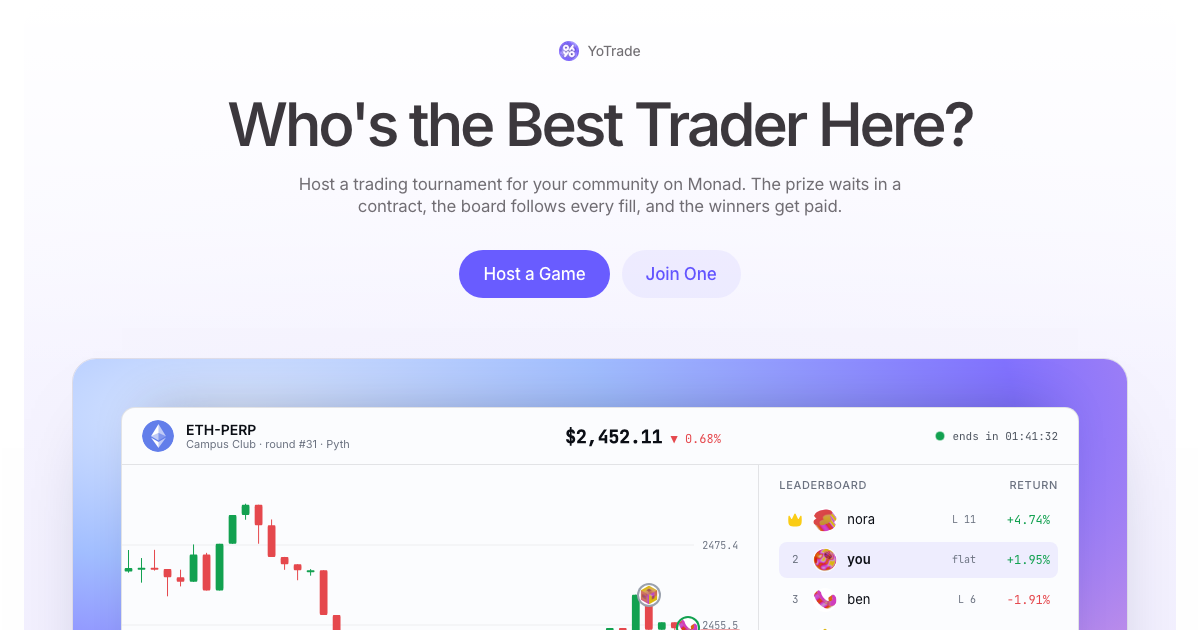
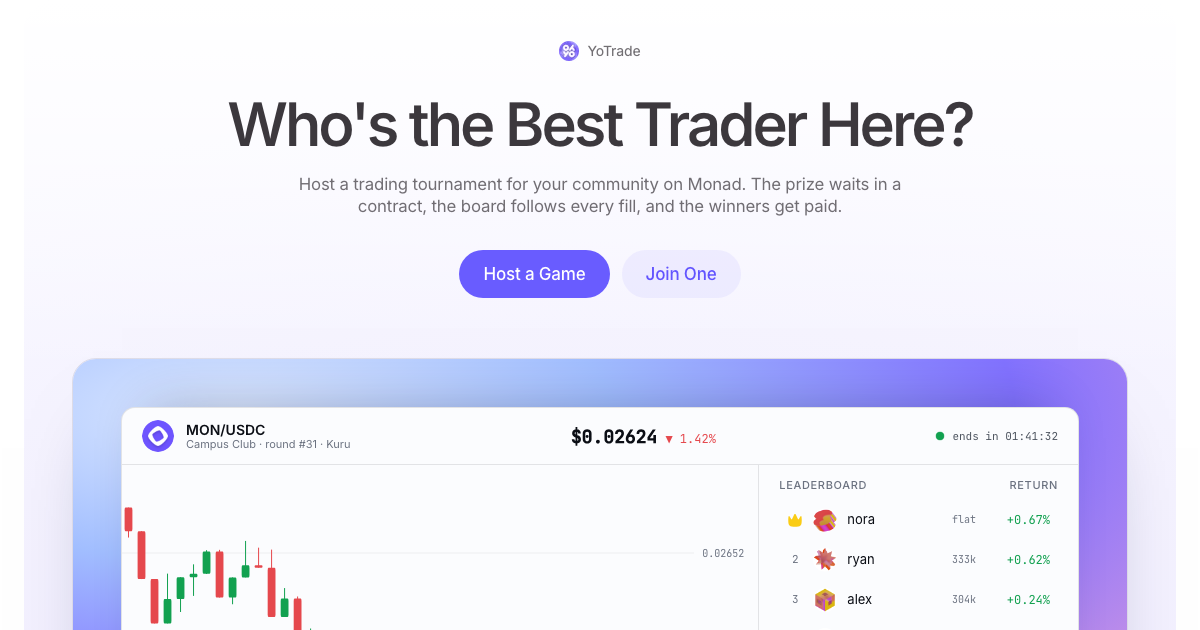
feat(landing): the hero round trades MON/USDC on Kuru, buys and sells

diff --git a/apps/landing/src/components/canvas/hero-canvas.tsx b/apps/landing/src/components/canvas/hero-canvas.tsx
@@ -2,9 +2,9 @@ import { AnimatePresence, motion, useReducedMotion } from "framer-motion";
 import { useEffect, useState } from "react";
 
 /**
- * A futures round in motion: an ETH candle chart, a handful of traders opening and closing on it,
- * and the board re-ranking with every tick. A simulation: the rules are the app's (the same
- * $10,000 for everyone, return on capital, the same price for all), the traders and prices are not.
+ * A spot round in motion: a MON/USDC candle chart on Kuru's book, a handful of traders buying in and
+ * selling out on it, and the board re-ranking with every tick. A simulation: the rules are the app's (the
+ * same capital for everyone, return on capital, the same book for all), the traders and prices are not.
  */
 
 type Candle = { o: number; h: number; l: number; c: number };
@@ -13,7 +13,7 @@ type Fill = {
   id: number;
   who: string;
   avatar: string;
-  action: "long" | "short" | "close";
+  action: "buy" | "sell";
   size: number;
   price: number;
   at: number;
@@ -30,8 +30,13 @@ const START = 10_000;
 const ROUND_SECONDS = 2 * 3600 - 17 * 60;
 const UP = "#12a150";
 const DOWN = "#e5484d";
-/** Green long, red short, grey close. */
-const TONE = { long: UP, short: DOWN, close: "#9aa1ad" } as const;
+/** Green buy, red sell. */
+const TONE = { buy: UP, sell: DOWN } as const;
+/** A buy is 40k to 160k MON, in thousands: about $1,000 to $4,000 at the round's prices. */
+const LOT_MIN = 40;
+const LOT_MAX = 160;
+/** MON trades at a few cents, so prices carry five decimals. */
+const DECIMALS = 5;
 
 /** The app's own avatars, served from public/app/. */
 const ROSTER: [string, string][] = [
@@ -74,18 +79,20 @@ function advance(state: State, random: () => number): State {
   const traders = state.traders.map((t) => ({ ...t }));
   const t = traders[index] as Trader;
   const trend = c - (candles[Math.max(0, candles.length - 6)] as Candle).o;
-  const wantsLong = random() < (trend > 0 ? 0.62 : 0.38);
+  const wantsIn = random() < (trend > 0 ? 0.62 : 0.38);
   let fill: Omit<Fill, "id" | "who" | "avatar" | "at" | "price">;
-  if (t.size !== 0 && (random() < 0.4 || t.size > 0 !== wantsLong)) {
-    fill = { action: "close", size: Math.abs(t.size) };
+  // Spot has no shorts: a trader buys in, and sells out of what they hold.
+  if (t.size > 0 && (random() < 0.4 || !wantsIn)) {
+    fill = { action: "sell", size: t.size };
     t.realized += t.size * (c - t.entry);
     t.size = 0;
+  } else if (wantsIn && (t.size + LOT_MAX) * c <= START) {
+    const size = Math.round(LOT_MIN + random() * (LOT_MAX - LOT_MIN)) * 1_000;
+    t.entry = (t.entry * t.size + c * size) / (t.size + size);
+    t.size += size;
+    fill = { action: "buy", size };
   } else {
-    const size = Math.round(2 + random() * 12);
-    const signed = wantsLong ? size : -size;
-    t.entry = t.size === 0 ? c : (t.entry * t.size + c * signed) / (t.size + signed);
-    t.size += signed;
-    fill = { action: wantsLong ? "long" : "short", size };
+    return { ...state, tick, first, candles };
   }
   const entry: Fill = {
     ...fill,
@@ -103,7 +110,7 @@ function initial(): State {
   let state: State = {
     tick: 0,
     first: 0,
-    candles: [{ o: 2418, h: 2418, l: 2418, c: 2418 }],
+    candles: [{ o: 0.0261, h: 0.0261, l: 0.0261, c: 0.0261 }],
     traders: ROSTER.map(([name, avatar]) => ({ name, avatar, size: 0, entry: 0, realized: 0 })),
     fills: [],
   };
@@ -115,8 +122,10 @@ function initial(): State {
 
 const roiOf = (t: Trader, price: number) => (t.realized + t.size * (price - t.entry)) / START;
 
-const money = (n: number) =>
-  n.toLocaleString("en-US", { minimumFractionDigits: 2, maximumFractionDigits: 2 });
+const money = (n: number) => n.toFixed(DECIMALS);
+
+/** 120000 → "120k". */
+const lot = (size: number) => `${Math.round(size / 1_000)}k`;
 
 const clock = (seconds: number) =>
   [Math.floor(seconds / 3600), Math.floor((seconds % 3600) / 60), seconds % 60]
@@ -162,7 +171,7 @@ export function HeroCanvas() {
         <div
           className="overflow-hidden rounded-t-[14px] border border-b-0 border-[var(--color-border)] bg-[var(--color-paper)] text-[var(--color-ink)] shadow-[0_-24px_50px_-30px_rgba(20,28,60,0.32)]"
           role="img"
-          aria-label="A simulated futures round: an ETH candle chart with traders' fills, and a leaderboard that re-ranks as the price moves"
+          aria-label="A simulated spot round: a MON/USDC candle chart with traders' fills, and a leaderboard that re-ranks as the price moves"
         >
           <Header price={price} change={change} left={left} />
           {/* A fixed height on wide screens: the sidebar never grows the frame, so the page never jumps. */}
@@ -186,11 +195,11 @@ function Header({ price, change, left }: { price: number; change: number; left: 
   return (
     <div className="flex flex-col gap-2 border-b sm:flex-row sm:items-center sm:justify-between sm:gap-6 border-[var(--color-border)] px-4 py-3 sm:px-5">
       <div className="flex items-center gap-3">
-        <img src="/app/eth.png" alt="" width={32} height={32} className="size-8 rounded-full" />
+        <img src="/app/mon.png" alt="" width={32} height={32} className="size-8 rounded-full" />
         <div className="leading-tight">
-          <div className="text-[14px] font-semibold">ETH-PERP</div>
+          <div className="text-[14px] font-semibold">MON/USDC</div>
           <div className="text-[11px] text-[var(--color-ink-3)]">
-            Campus Club · round #31 · Pyth
+            Campus Club · round #31 · Kuru
           </div>
         </div>
       </div>
@@ -307,14 +316,14 @@ function Chart({ state, price }: { state: State; price: number }) {
       <div className="absolute inset-y-0 right-0 w-16 font-mono text-[10px] tabular-nums text-[var(--color-ink-3)]">
         {grid.map((p) => (
           <span key={p} className="absolute left-2 -translate-y-1/2" style={{ top: `${y(p)}%` }}>
-            {p.toFixed(1)}
+            {p.toFixed(DECIMALS)}
           </span>
         ))}
         <span
           className="absolute left-1 -translate-y-1/2 rounded px-1 py-0.5 text-white"
           style={{ top: `${y(price)}%`, background: lastUp ? UP : DOWN }}
         >
-          {price.toFixed(1)}
+          {price.toFixed(DECIMALS)}
         </span>
       </div>
     </div>
@@ -370,16 +379,11 @@ function Board({ board }: { board: (Trader & { roi: number })[] }) {
   );
 }
 
-const sideText = (size: number) => {
-  if (size === 0) {
-    return "flat";
-  }
-  return `${size > 0 ? "L" : "S"} ${Math.abs(size)}`;
-};
+const sideText = (size: number) => (size === 0 ? "flat" : lot(size));
 
 const roiText = (roi: number) => `${roi >= 0 ? "+" : "−"}${(Math.abs(roi) * 100).toFixed(2)}%`;
 
-const VERB = { long: "longed", short: "shorted", close: "closed" } as const;
+const VERB = { buy: "bought", sell: "sold" } as const;
 
 function Feed({ fills }: { fills: Fill[] }) {
   return (
@@ -403,7 +407,7 @@ function Feed({ fills }: { fills: Fill[] }) {
               <img src={f.avatar} alt="" width={16} height={16} className="size-4 rounded-full" />
               <span className="font-medium">{f.who}</span>
               <span style={{ color: TONE[f.action] }}>
-                {VERB[f.action]} {f.size} ETH
+                {VERB[f.action]} {lot(f.size)} MON
               </span>
               <span className="ml-auto font-mono text-[11px] tabular-nums text-[var(--color-ink-3)]">
                 {money(f.price)}
